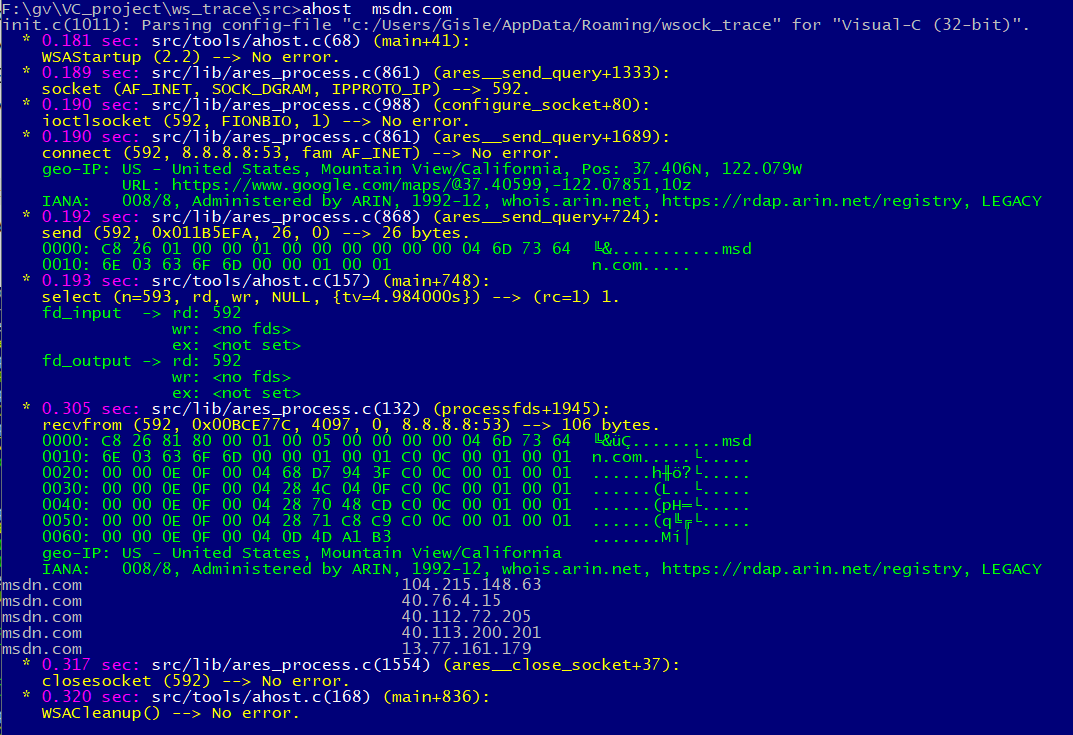
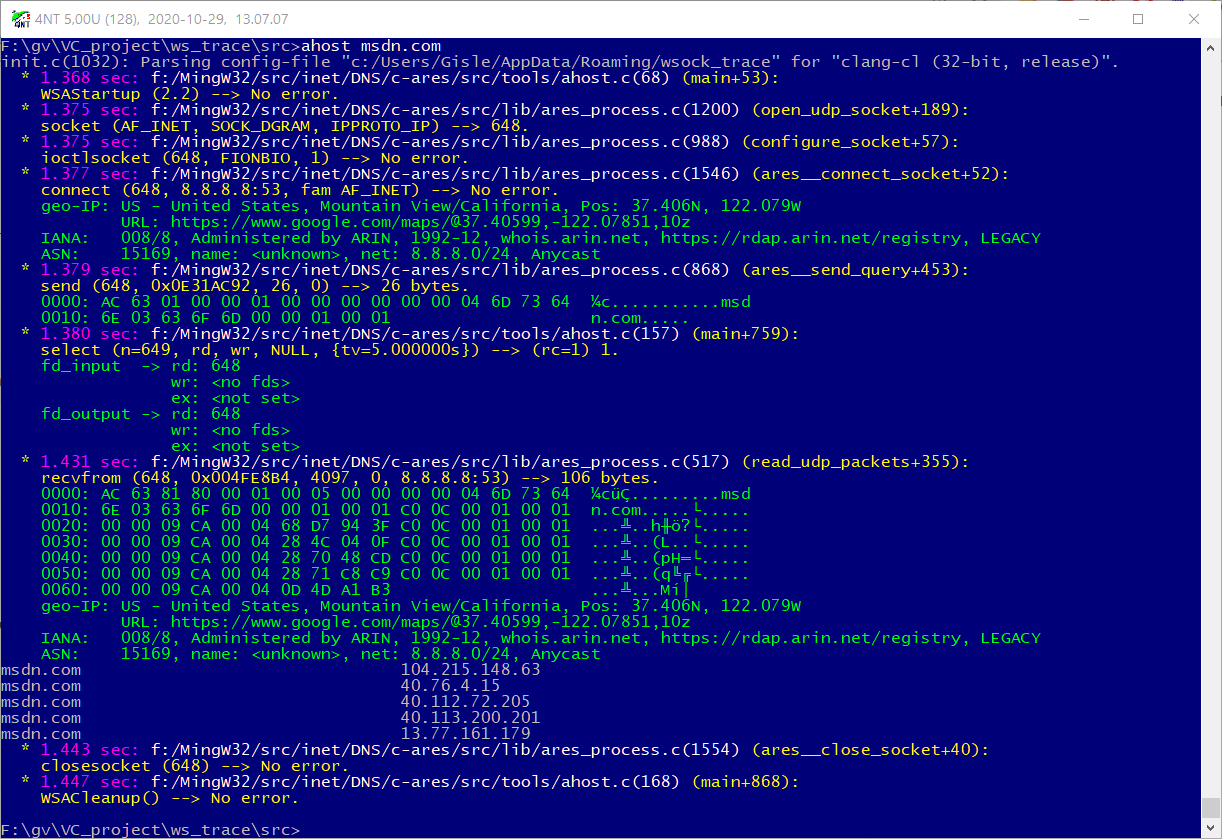
Updated from-page:   *) Clarify the ASN information info in the screen-shot.   *) Fix an internal link.

Changed region(s): [[0.0, 0.0, 1.0, 1.0], [0.6766, 0.868, 0.7996, 0.898], [0.6459, 0.5986, 0.7074, 0.6286]]

diff --git a/README.md b/README.md
@@ -48,8 +48,10 @@ A MSVC example output from `c:\> ahost msdn.com` showing all the addresses of `m
   The above `Mountain View/California` is Google's well-known location. Many thanks to IP2Location
   [**[3]**](#footnotes) for their data-bases.
 
-* *ASN* information (Autonomous System Number) from **[IPFire](https://location.ipfire.org)**.
-  Many thanks to IPFire [**[4]**](#footnotes) for their data-bases.
+* *ASN* information (Autonomous System Number) from **[IPFire](https://location.ipfire.org)**. <br>
+  The screen-shot above shows Google has ASN 15169 (for their DNS server-address `8.8.8.8`). <br>
+  More details for that ASN at **[DNSlytics](https://dnslytics.com/bgp/as15169)**. <br>
+  Many thanks to the IPFire developers [**[4]**](#footnotes) for their data-bases.
 
 * *Domain Name System-based Blackhole List*
   (**[DNSBL](https://en.wikipedia.org/wiki/DNSBL)**) support: with the help of
@@ -62,7 +64,8 @@ A MSVC example output from `c:\> ahost msdn.com` showing all the addresses of `m
   controlled by `recv_delay = 0` in [`wsock_trace`](https://github.com/gvanem/wsock-trace/blob/master/wsock_trace#L66)
   config-file.
 
-* *Firewall* activity; report activity causing events from the *Window Filtering Platform* (the *Internet Connection Firewall*; ICF). See below.
+* *Firewall* activity; report activity causing events from the *Window Filtering Platform* (the *Internet Connection Firewall*; ICF).
+  See [below](https://github.com/gvanem/wsock-trace#firewall-monitor).
 
 * **[LuaJIT](https://github.com/LuaJIT/LuaJIT.git)** script support is very
   preliminary at the moment. The idea is that `.lua` scripts could change the
@@ -311,7 +314,7 @@ Together with `[DNSBL], enable = 1` it shows remote addresses in **[SpamHaus](ht
 In this case the **[address](https://blackhat.directory/ip/176.119.4.53)** `176.119.4.56`
 in *Ukraine / Donetsk* is *very* active giving a Firewall event approximately every 5 minutes.
 
-A good test of the `firewall.c` features is to open your WiFi FireWall and start a remote
+A good test of the `firewall.c` features is to open up your router (create a DMZ) and start a remote
 **[port-scan](http://www.whatsmyip.org/port-scanner/server/)** while `firewall_test.exe`
 is running. You'll see a lot of **DROP**-events like:
 ```
